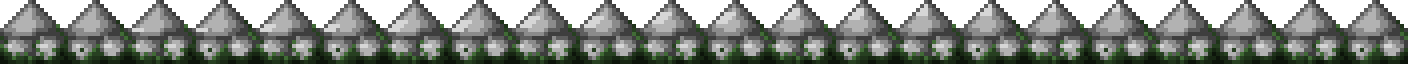
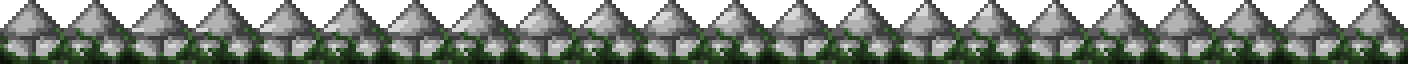
Graphical upgrade

Changed region(s): [[0.0, 0.375, 1.0, 1.0]]

diff --git a/lib/game/row.dart b/lib/game/row.dart
@@ -17,6 +17,10 @@ enum TileType {
   edgeBR,
   edgeTL,
   edgeTR,
+  cornerBL,
+  cornerBR,
+  cornerTL,
+  cornerTR,
   block,
   empty
 }
@@ -27,12 +31,11 @@ class TileCfg {
   double h;
   double o;
 
-  int    rand;
   double tileSize;
 
   TileCfg({this.d, this.w, this.h, this.o});
 
-  String get sprite  => ['U'].contains(d) ? 'wall-$d.png' : 'wall-$rand-$d.png';
+  String get sprite  => 'wall-$d.png';
   double get width   => this.w * 32 * 4;
   double get height  => this.h * 32 * 4;
   double get offsetX => this.w < 1.0 ? this.o * tileSize : 0.0;
@@ -83,6 +86,10 @@ class GameRow extends MetaComp {
         case TileType.edgeBR:
         case TileType.edgeTL:
         case TileType.edgeTR: _generateEdge(current, i, offset); break;
+        case TileType.cornerBL:
+        case TileType.cornerBR:
+        case TileType.cornerTL:
+        case TileType.cornerTR: _generateCorner(current, i, offset); break;
         case TileType.empty:
         default: break;
       }
@@ -98,6 +105,26 @@ class GameRow extends MetaComp {
     sp.hitBox       = Rect.fromLTWH(sp.x, this.y, sp.width, sp.height);
   }
 
+  void _generateCorner(TileType current, int tileIdx, double offset) {
+    String tile;
+    double dx = 0;
+    double dy = 0;
+    switch (current) {
+      case TileType.cornerBL: tile = 'corner-BL.png'; dy = 0;  dx = .5; break;
+      case TileType.cornerBR: tile = 'corner-BR.png'; dy = 0;  dx = 0;  break;
+      case TileType.cornerTL: tile = 'corner-TL.png'; dy = .5; dx = .5; break;
+      case TileType.cornerTR: tile = 'corner-TR.png'; dy = .5; dx = 0;  break;
+      default: return;
+    }
+
+    GameSprite sp = GameSprite.square(0.5, tile);
+    add(sp);
+    sp.x            = (tileIdx + dx) * tileSize + offset;
+    sp.y            = dy * tileSize;
+    sp.compPriority = 5;
+    sp.hitBox       = Rect.fromLTWH(sp.x + .5 * dx * tileSize, this.y + sp.y + .5 * dy * tileSize, sp.width * .5, sp.height * .5);
+  }
+
   void _generateBorder(TileType current, int tileIdx, double offset) {
     TileCfg tile;
     switch (current) {
@@ -108,7 +135,6 @@ class GameRow extends MetaComp {
       default: return;
     }
 
-    tile.rand     = this.rand.nextInt(3);
     tile.tileSize = this.tileSize;
 
     Animation ani = Animation.variableSequenced(

diff --git a/lib/game/obstacles.dart b/lib/game/obstacles.dart
@@ -115,13 +115,15 @@ class NarrowCorridor extends Obstacle {
     tiles.fillRange(this.rightIDX + 1, data.width,   tile);
 
     if (this.leftIDX > data.leftIDX) {
-      tiles[data.leftIDX] = this.isFirst ? TileType.edgeBR : TileType.edgeTR;
+      tiles[data.leftIDX] = this.isFirst ? TileType.edgeBR   : TileType.edgeTR;
+      tiles[this.leftIDX] = this.isFirst ? TileType.cornerBR : TileType.cornerTR;
     } else {
       tiles[data.leftIDX] = TileType.borderL;
     }
 
     if (this.rightIDX < data.rightIDX) {
-      tiles[data.rightIDX] = this.isFirst ? TileType.edgeBL : TileType.edgeTL;
+      tiles[data.rightIDX] = this.isFirst ? TileType.edgeBL   : TileType.edgeTL;
+      tiles[this.rightIDX] = this.isFirst ? TileType.cornerBL : TileType.cornerTL;
     } else {
       tiles[data.rightIDX] = TileType.borderR;
     }
@@ -170,11 +172,11 @@ class SpikeWall extends Obstacle {
   @override
   List<TileType> nextVariableLayer() {
     if (this.isFirst) {
-      return <TileType>[TileType.empty, TileType.borderD, TileType.empty];
+      return <TileType>[TileType.cornerBL, TileType.borderD, TileType.cornerBR];
     }
 
     if (this.isLast) {
-      return <TileType>[TileType.empty, TileType.borderU, TileType.empty];
+      return <TileType>[TileType.cornerTL, TileType.borderU, TileType.cornerTR];
     }
 
     return <TileType>[TileType.borderR, TileType.block, TileType.borderL];

diff --git a/lib/game/gameRoot.dart b/lib/game/gameRoot.dart
@@ -63,20 +63,18 @@ class GameRoot extends Game {
       'flame.png',
       'explosion.png',
       'ground.png',
-      'wall-0-L.png',
-      'wall-1-L.png',
-      'wall-2-L.png',
-      'wall-0-R.png',
-      'wall-1-R.png',
-      'wall-2-R.png',
+      'wall-L.png',
+      'wall-R.png',
       'wall-U.png',
-      'wall-0-D.png',
-      'wall-1-D.png',
-      'wall-2-D.png',
+      'wall-D.png',
       'edge-BL.png',
       'edge-BR.png',
       'edge-TL.png',
       'edge-TR.png',
+      'corner-BL.png',
+      'corner-BR.png',
+      'corner-TL.png',
+      'corner-TR.png',
       'block.png',
       'death-screen-10.png',
       'death-screen-20.png',

diff --git a/lib/game/player.dart b/lib/game/player.dart
@@ -76,7 +76,7 @@ class Player extends MetaComp {
     this.x      = this._posX - this.width / 2;
     double hw   = (tileSize ?? 16) / 1.75;
     double ofs  = (this.width  / 2 - hw / 2);
-    this.hitBox = Rect.fromLTWH(this.x + ofs, this.y + ofs, hw, hw);
+    this.hitBox = Rect.fromLTWH(this.x + ofs, this.y + ofs * 0.25, hw, hw);
   }
 
   @override
